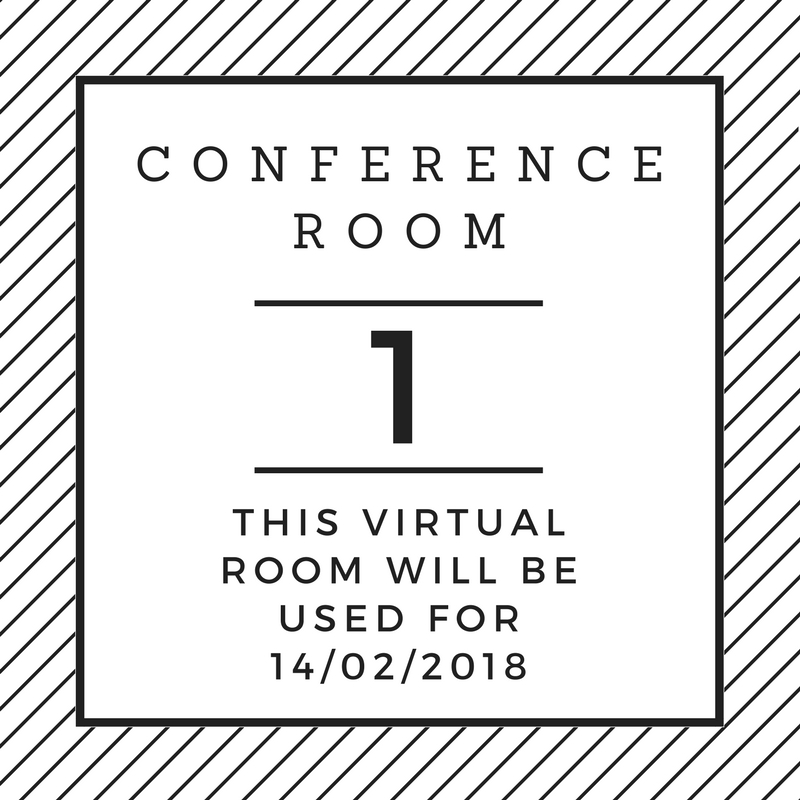
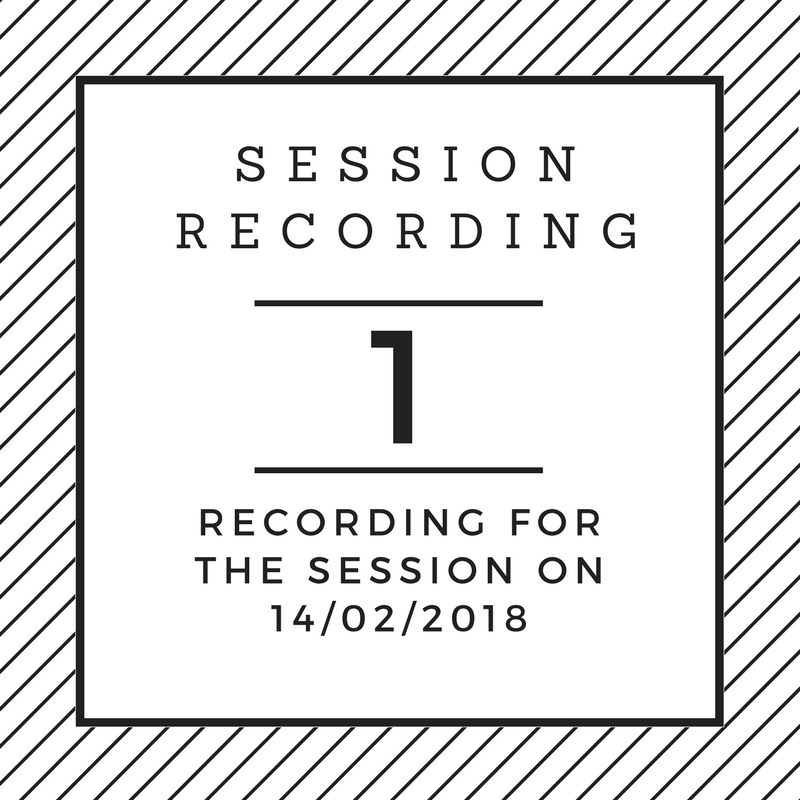
Adding the recording links for the three sessions

Changed region(s): [[0.25, 0.625, 0.75, 0.875], [0.1562, 0.1562, 0.8438, 0.3125]]

diff --git a/conference_rooms.html b/conference_rooms.html
@@ -109,7 +109,7 @@ jQuery("#tabs").tabs();
       		<div class="menu-navigation-container">
         	<ul class="menu">
             <li class="first leaf"><a href="./index.html">Home</a></li>
-				    <li class="leaf"><a href="./conference_rooms.html">Conference Rooms</a></li>
+				    <li class="leaf"><a href="./conference_rooms.html">Session Recordings</a></li>
 				    <li class="leaf"><a href="./abstracts.html">Abstracts</a></li>
 				    <li class="last leaf"><a href="./help.html">Help</a></li>
 			    </ul>
@@ -131,7 +131,7 @@ jQuery("#tabs").tabs();
         		<span property="dc:title" content="Homebaner text" class="rdf-meta element-hidden"></span>
   
   					<div class="content">
-    					<div class="field field-name-body field-type-text-with-summary field-label-hidden"><div class="field-items"><div class="field-item even" property="content:encoded"> <h1 class="banner-title">Conference Rooms<br><span style="font-size: 0.8em;"></span></h1><p>14 - 16 February 2018 | Charles Darwin University</p></div></div></div> 
+    					<div class="field field-name-body field-type-text-with-summary field-label-hidden"><div class="field-items"><div class="field-item even" property="content:encoded"> <h1 class="banner-title">Session Recordings<br><span style="font-size: 0.8em;"></span></h1><p>14 - 16 February 2018 | Charles Darwin University</p></div></div></div> 
     				</div>
 				</div>
   			</div>
@@ -159,7 +159,7 @@ jQuery("#tabs").tabs();
                       	<span property="dc:title" content="ICALLD Symposium" class="rdf-meta element-hidden"></span>  
       
   							<div class="content node-page">
-    						<div class="field field-name-body field-type-text-with-summary field-label-hidden"><div class="field-items"><div class="field-item even" property="content:encoded"> <p class="hero">The International Consortium of Academic Language and Learning Developers (ICALLD) Online Symposium 2018 will be hosted by CDU from 14 - 16 February 2018.</p><p>There are three online conference rooms set up: one for the 14th of February, one for the 15th of February, and one for the 16th of February. The online conference rooms for the 14th, 15th and 16th can be accessed by clicking the Room 1, Room 2, or Room 3 icons, respectively.</p>
+    						<div class="field field-name-body field-type-text-with-summary field-label-hidden"><div class="field-items"><div class="field-item even" property="content:encoded"> <p class="hero">The International Consortium of Academic Language and Learning Developers (ICALLD) Online Symposium 2018 was hosted by CDU from 14 - 16 February 2018.</p><p>There are links to the session recordings set up: one for the 14th of February, one for the 15th of February, and one for the 16th of February. The online conference rooms for the 14th, 15th and 16th can be accessed by clicking the Session Recording 1, Session Recording 2, or Session Recording 3 icons, respectively.</p>
                 <br>
                 <p>Abstracts and scheduled times can be found on the abstracts page located in the navigation menu above. Similarly, instructions on how to use the Blackboard Collaborate interface, where the symposium will be hosted, can be found in the help page located in the navigation menu. Alternatively, a full schedule and abstract listing can be found in the ICALLD program provided in the link below.</p>
                 <br>
@@ -194,17 +194,17 @@ jQuery("#tabs").tabs();
       				<div class="view-content">
         				<div class="views-row views-row-1 views-row-odd views-row-first">
       
-  						<div class="views-field views-field-nid">        <span class="field-content"><a href="https://au.bbcollab.com/guest/78b76f842ec4495f9548fc40d21784af" target="_blank"><div><img typeof="foaf:Image" src="./static/room1.jpg" width="220" height="220" alt="Room 1"></div>
-						<div class="speaker-name">Room 1 </div></a></span>  </div>  </div>
+  						<div class="views-field views-field-nid">        <span class="field-content"><a href="https://au.bbcollab.com/collab/ui/session/playback/load/3efc91c7e8984fabae1e1fcad6974727" target="_blank"><div><img typeof="foaf:Image" src="./static/room1.jpg" width="220" height="220" alt="Room 1"></div>
+						<div class="speaker-name">Session 1 </div></a></span>  </div>  </div>
   						<div class="views-row views-row-2 views-row-even views-row-last">
       
-  						<div class="views-field views-field-nid">        <span class="field-content"><a href="https://au.bbcollab.com/guest/78b76f842ec4495f9548fc40d21784af" target="_blank"><div><img typeof="foaf:Image" src="./static/room2.jpg" width="220" height="220" alt="Room 2"></div>
-						<div class="speaker-name">Room 2 </div></a></span>  </div>  </div>
+  						<div class="views-field views-field-nid">        <span class="field-content"><a href="https://au.bbcollab.com/collab/ui/session/playback/load/c81f748b25fb4eb7b1584d8664db294e" target="_blank"><div><img typeof="foaf:Image" src="./static/room2.jpg" width="220" height="220" alt="Room 2"></div>
+						<div class="speaker-name">Session 2 </div></a></span>  </div>  </div>
 
             <div class="views-row views-row-3 views-row-even views-row-last">
       
-              <div class="views-field views-field-nid">        <span class="field-content"><a href="https://au.bbcollab.com/guest/78b76f842ec4495f9548fc40d21784af" target="_blank"><div><img typeof="foaf:Image" src="./static/room3.jpg" width="220" height="220" alt="Room 2"></div>
-            <div class="speaker-name">Room 3 </div></a></span>  </div>  </div>
+              <div class="views-field views-field-nid">        <span class="field-content"><a href="https://au.bbcollab.com/collab/ui/session/playback/load/af2adaf0a0ca4c87acfdd0d33c4745e6" target="_blank"><div><img typeof="foaf:Image" src="./static/room3.jpg" width="220" height="220" alt="Room 2"></div>
+            <div class="speaker-name">Session 3 </div></a></span>  </div>  </div>
     				</div>
   				</div>
   			</div>

diff --git a/abstracts.html b/abstracts.html
@@ -109,7 +109,7 @@ jQuery("#tabs").tabs();
       		<div class="menu-navigation-container">
         	<ul class="menu">
             <li class="first leaf"><a href="./index.html">Home</a></li>
-				    <li class="leaf"><a href="./conference_rooms.html">Conference Rooms</a></li>
+				    <li class="leaf"><a href="./conference_rooms.html">Session Recordings</a></li>
 				    <li class="leaf"><a href="./abstracts.html">Abstracts</a></li>
 				    <li class="last leaf"><a href="./help.html">Help</a></li>
 			    </ul>

diff --git a/help.html b/help.html
@@ -109,7 +109,7 @@ jQuery("#tabs").tabs();
       		<div class="menu-navigation-container">
         	<ul class="menu">
             <li class="first leaf"><a href="./index.html">Home</a></li>
-				    <li class="leaf"><a href="./conference_rooms.html">Conference Rooms</a></li>
+				    <li class="leaf"><a href="./conference_rooms.html">Session Recordings</a></li>
 				    <li class="leaf"><a href="./abstracts.html">Abstracts</a></li>
 				    <li class="last leaf"><a href="./help.html">Help</a></li>
 			    </ul>

diff --git a/index.html b/index.html
@@ -110,7 +110,7 @@ jQuery("#tabs").tabs();
       		<div class="menu-navigation-container">
         	<ul class="menu">
         		<li class="first leaf"><a href="./index.html">Home</a></li>
-				<li class="leaf"><a href="./conference_rooms.html">Conference Rooms</a></li>
+				<li class="leaf"><a href="./conference_rooms.html">Session Recordings</a></li>
 				<li class="leaf"><a href="./abstracts.html">Abstracts</a></li>
 				<li class="last leaf"><a href="./help.html">Help</a></li>
 			</ul>
